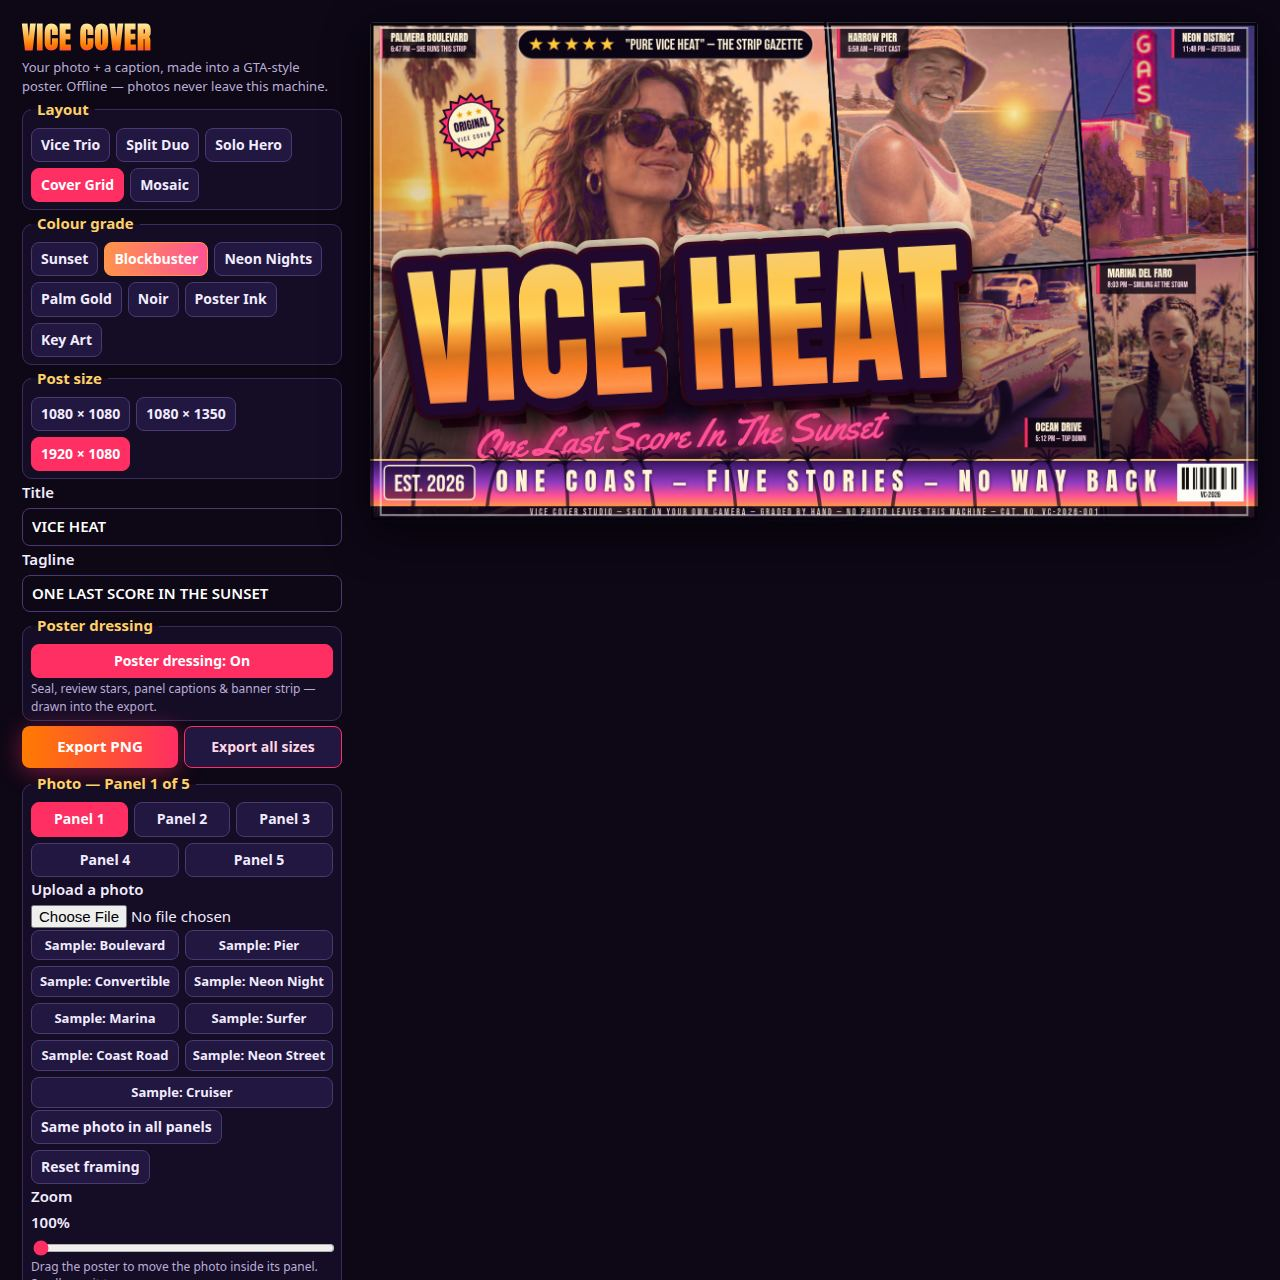
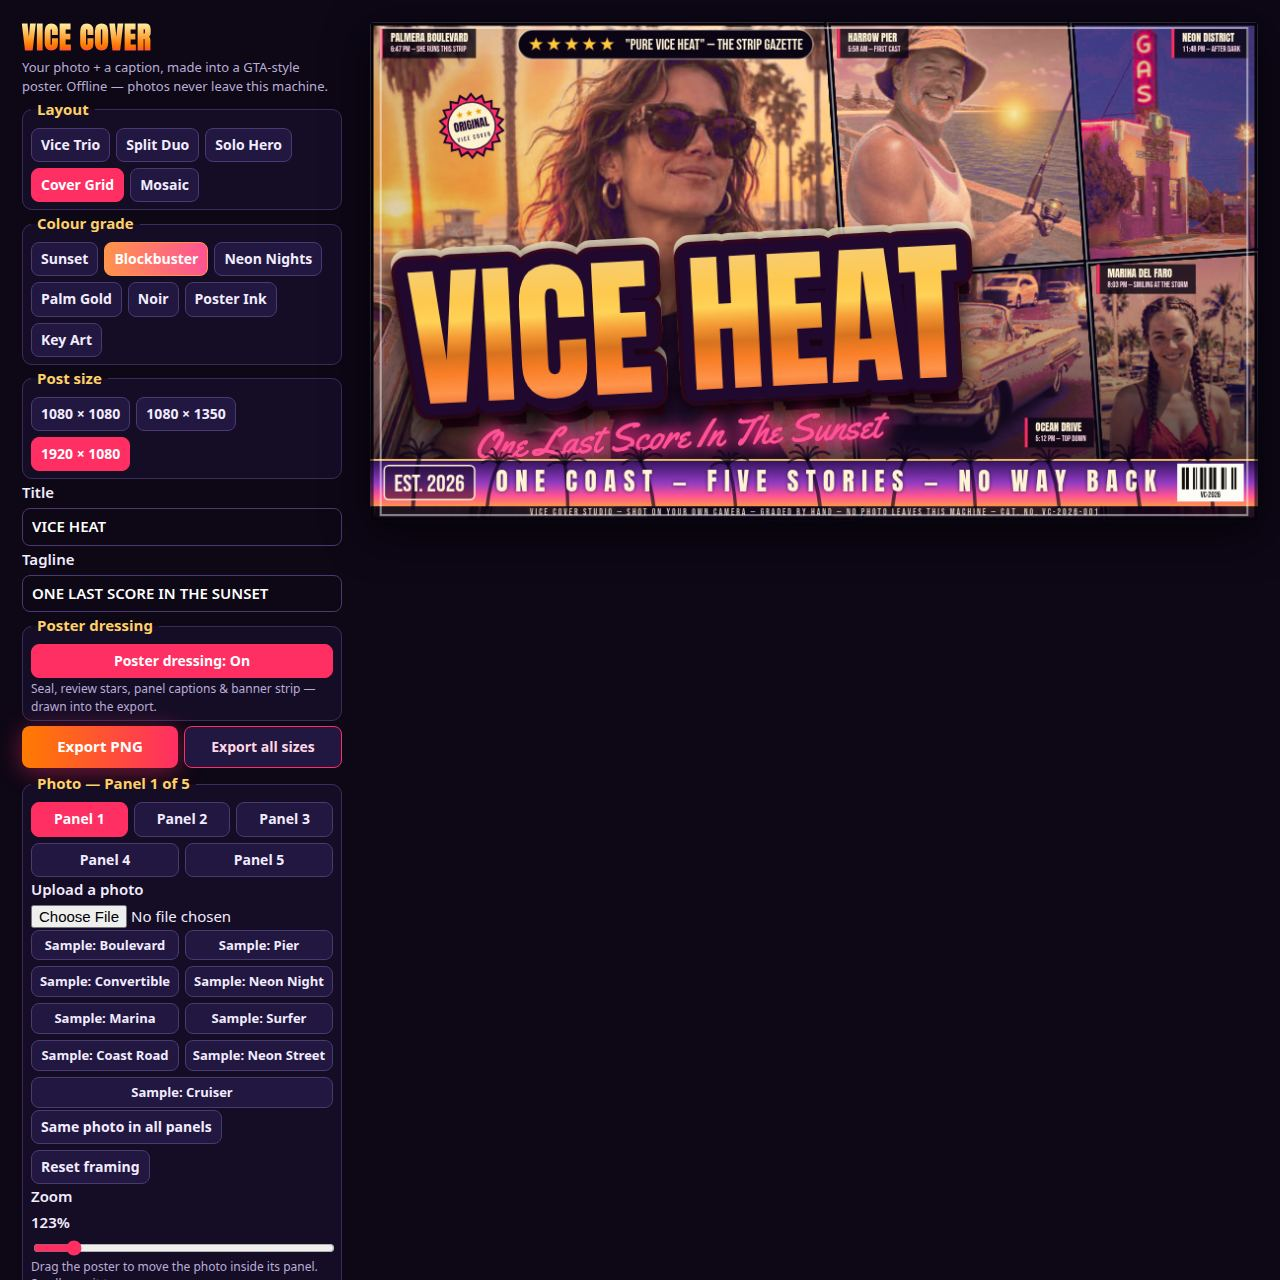
Round 44: hero panel reframe — heroine at cast-poster scale (zoom 1.23)

diff --git a/app/src/shots.js b/app/src/shots.js
@@ -37,22 +37,43 @@ export async function runShot(shot, query, helpers) {
     state.panels[i].src = src;
     if (framing) Object.assign(state.panels[i], framing);
   };
-  // The Blockbuster Grid showcase's hero framing (round 13): a mid
-  // shot, not the old tight crop. At zoom 1.22 the photo's window
-  // ended at her belt, so everything the title band covered was her —
-  // the band cut her at the neck and left a floating head with no
-  // body and no car. At zoom 1, favouring the top of the photo, the
-  // window runs from just above her hair to her upper thighs: head,
-  // shoulders and upper chest stay ABOVE the title's top edge, and
-  // what the letters and the script cross below them is the car's
-  // zone and her belt line — the winners' pattern, where the
-  // lettering rides the car, never the person. The sky band across
-  // the panel's top still clears her hair for the review row (her
-  // hair's top lands ~0.10 down the panel, the pill ends at 0.074).
-  // Only this scene is reframed; every other shot keeps the
-  // renderer's default framing exactly.
+  // The Blockbuster Grid showcase's hero framing (round 13, set to
+  // cast-poster scale in round 44): a mid shot, not the old tight
+  // crop. At zoom 1.22 the photo's window ended at her belt, so
+  // everything the title band covered was her — the band cut her at
+  // the neck and left a floating head with no body and no car. At
+  // zoom 1, favouring the top of the photo, the window runs from
+  // just above her hair to her upper thighs: head, shoulders and
+  // upper chest stay ABOVE the title's top edge, and what the
+  // letters and the script cross below them is the car's zone and
+  // her belt line — the winners' pattern, where the lettering rides
+  // the car, never the person. The sky band across the panel's top
+  // still clears her hair for the review row (her hair's top lands
+  // ~0.10 down the panel, the pill ends at 0.074). Only this scene
+  // is reframed; every other shot keeps the renderer's default
+  // framing exactly.
+  // Round 44 pushes the window to the largest face the panel's
+  // furniture allows, on the top-3 competitor analysis' verdict
+  // that the cover loses on subject size: the established face box
+  // (the skin gate's photo box) grows from 274 px to 337 px of the
+  // panel's height — share 0.254 -> 0.312, a 1.23x growth — at zoom
+  // 1.23, shifted right and up (ox 0.40, oy 0.74). That is the
+  // measured ceiling, not a round number: the review pill's foot
+  // (~y 105) and the title's top edge (~y 458 over the only face
+  // span that also clears the seal and the slanted divider) leave
+  // a ~353 px clear band, and a 1.5x face (411 px) fits it only by
+  // putting her chin ~100 px behind the letters or her hair under
+  // the pill. At this window the lifeguard tower and both palm
+  // rows stay in frame, her chin keeps ~7 px clear of the title's
+  // top edge, the pill only kisses her topmost hair wisps, and
+  // every skin gate holds (heroine mag330 17.82 against the 18.43
+  // cap, measured like round 40). The hero is the harmonize
+  // reference, so the satellites' white-balance gains re-derive
+  // from the reframed hero mean: measured on the 1920x1080 export
+  // their pixels move by a mean of 1.4 levels (max 27, none over
+  // 32) — a uniform balance nudge, no content change.
   const heroFrame = (state.layout === 'grid' && state.grade === 'blockbuster')
-    ? { zoom: 1, oy: 0.85 }
+    ? { zoom: 1.23, ox: 0.4, oy: 0.74 }
     : undefined;
   // The Blockbuster Grid showcase's scene panels get their own
   // framings, for the same reason the hero does. The cruiser photo
